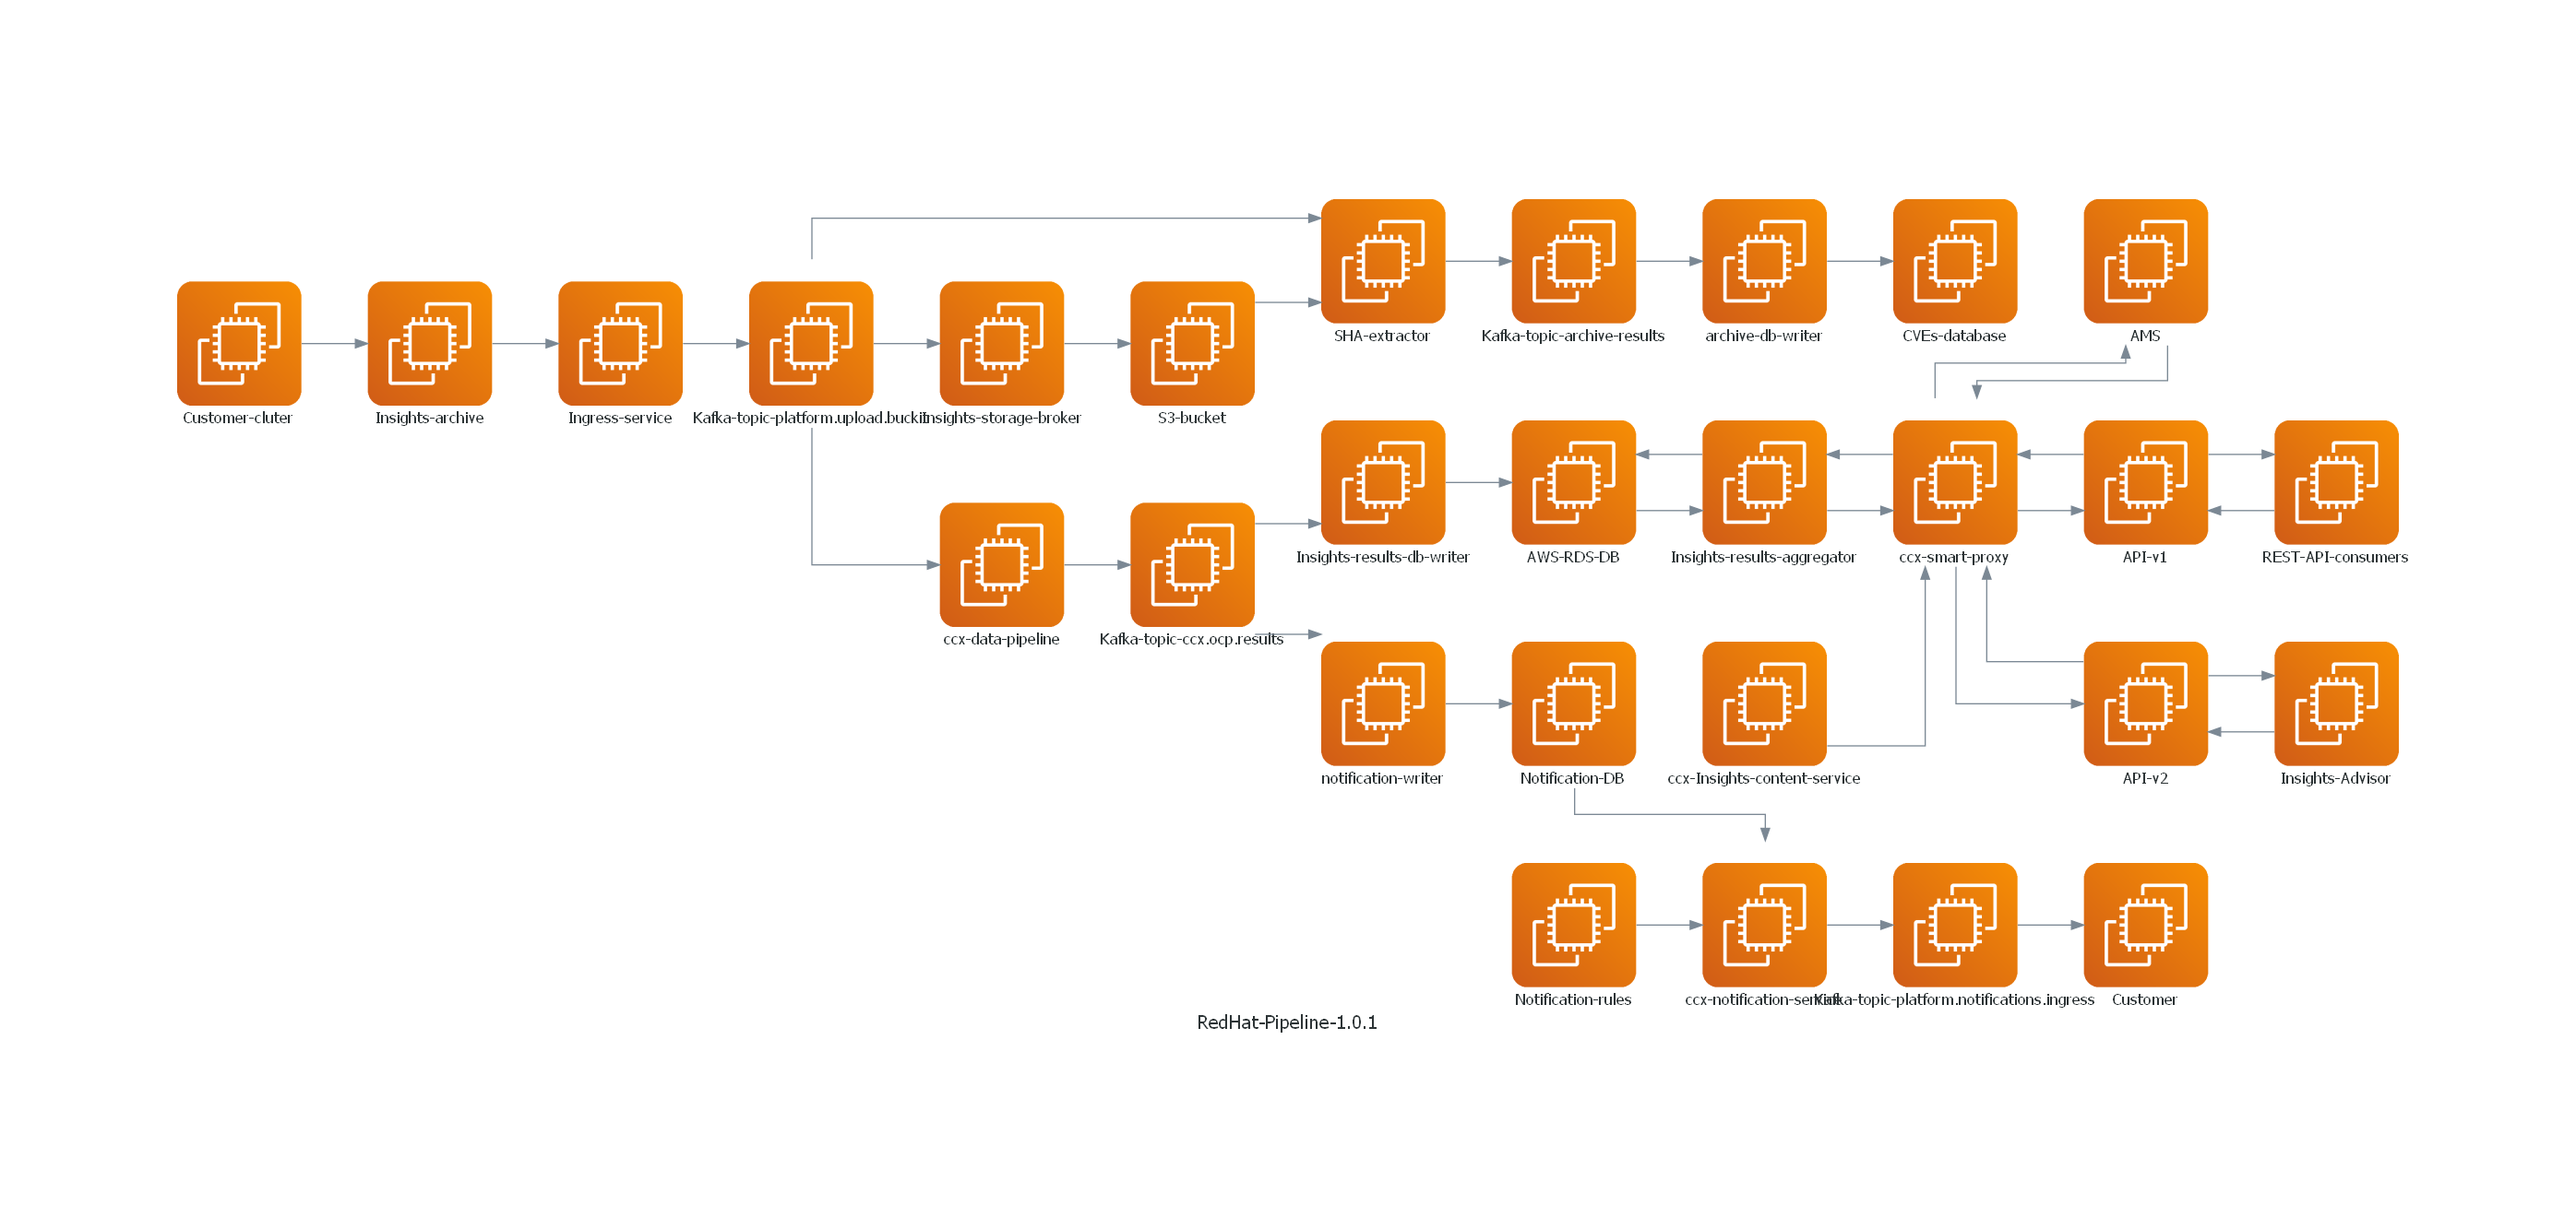
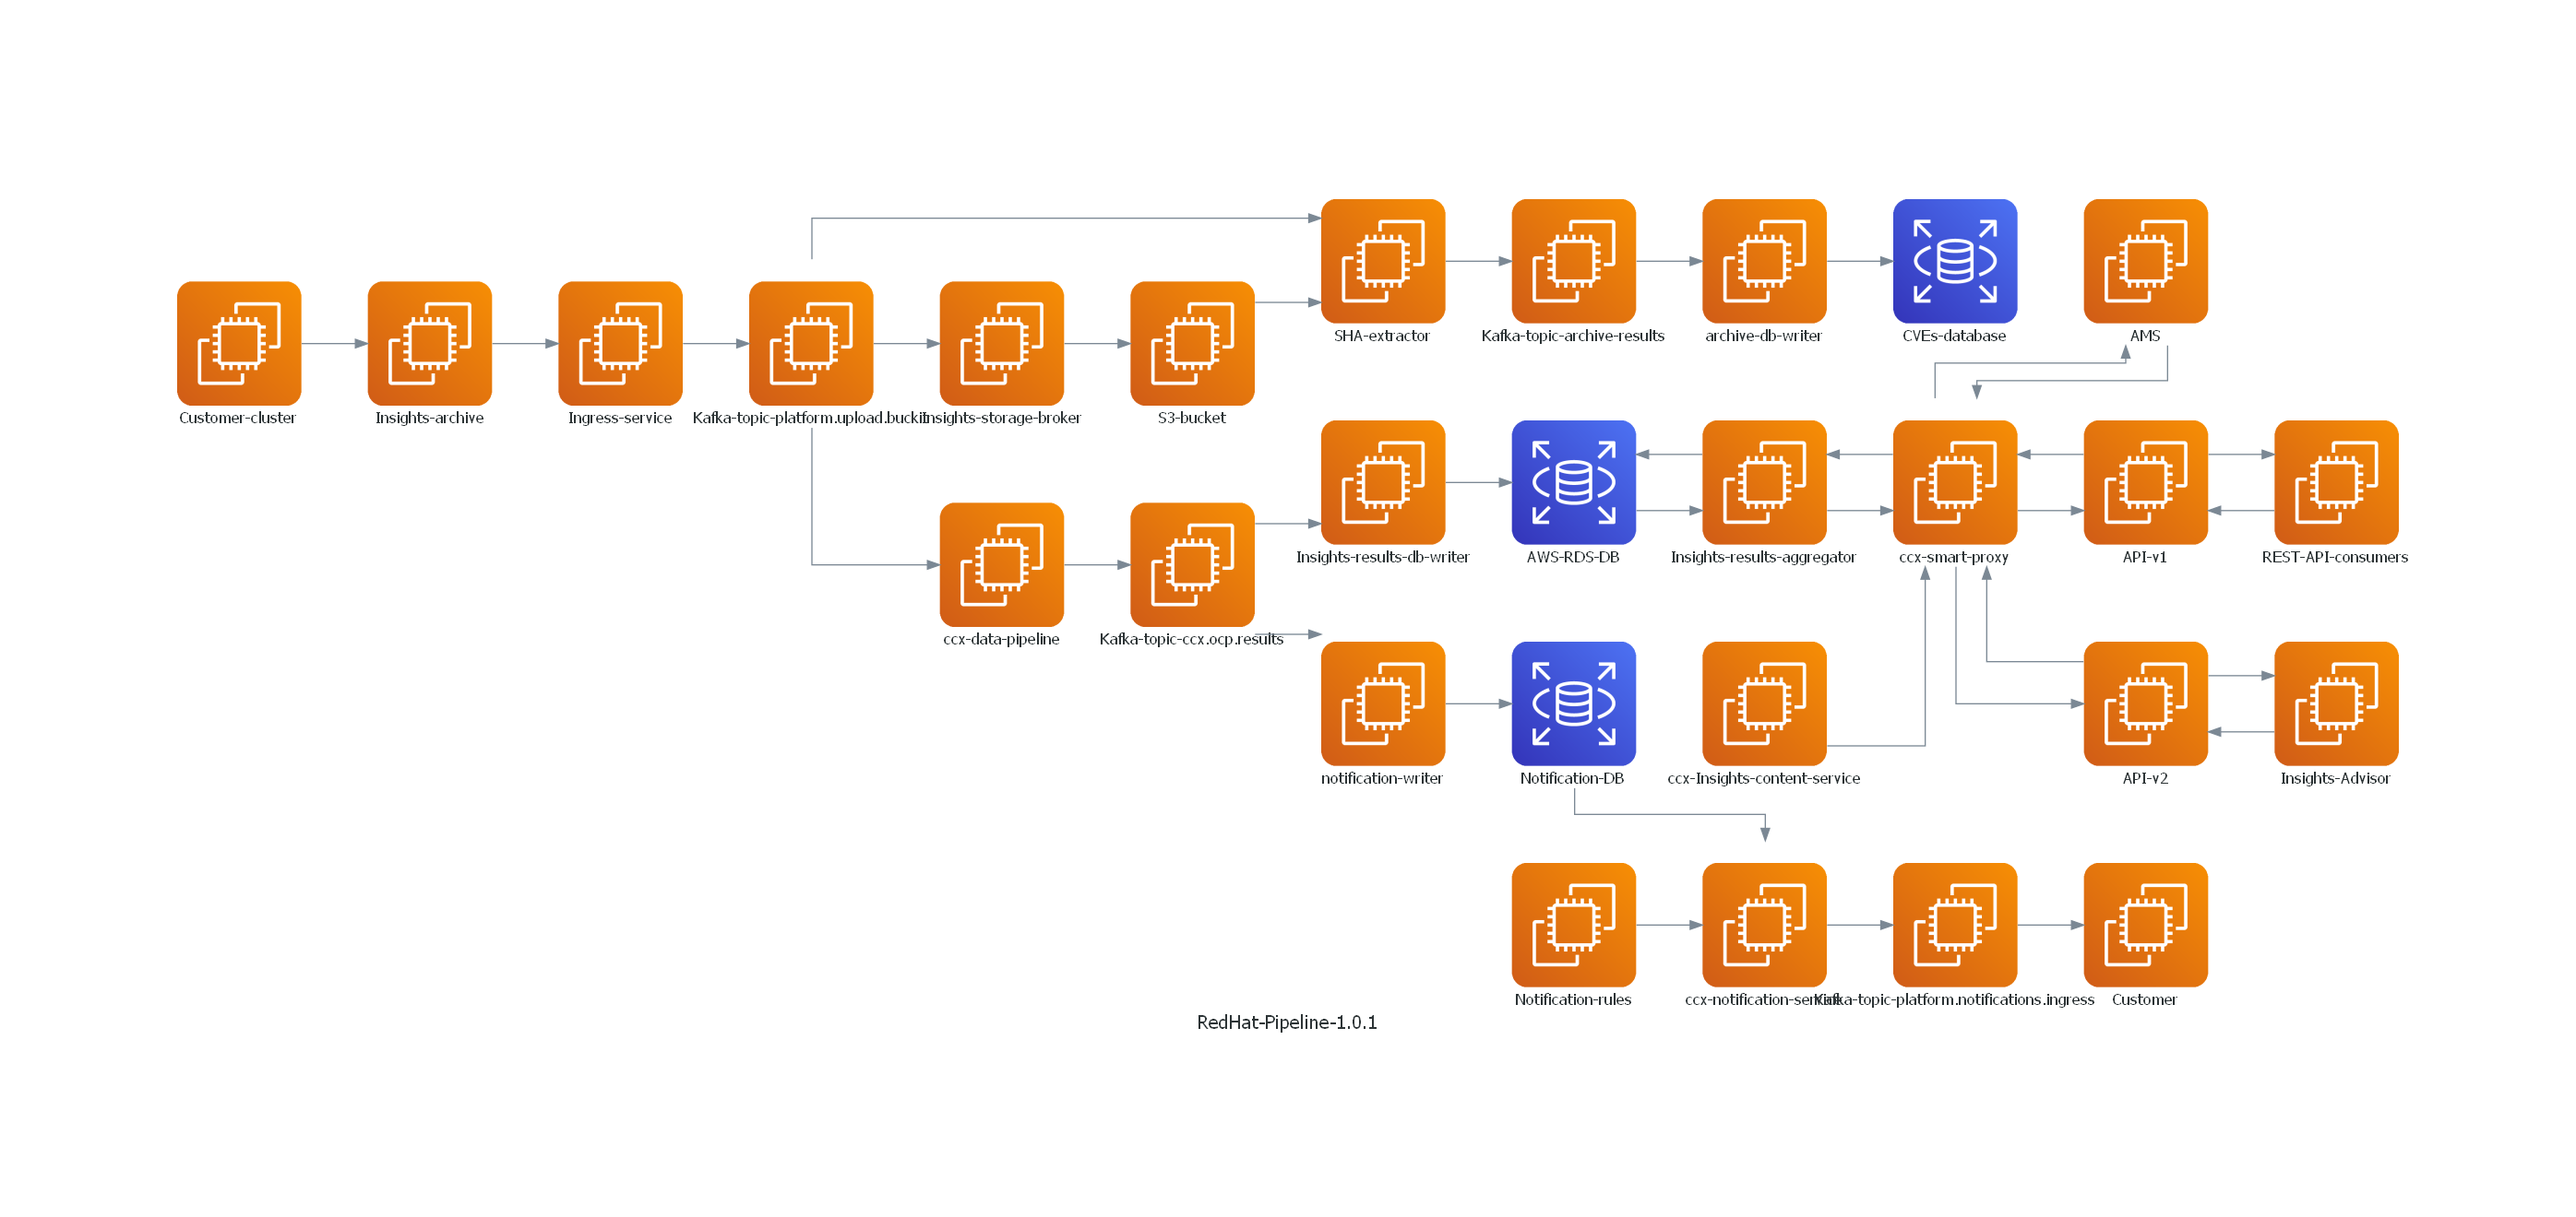
database type representation

Changed region(s): [[0.5609, 0.3417, 0.6544, 0.4659], [0.7167, 0.1553, 0.8102, 0.2795], [0.5609, 0.528, 0.6544, 0.6523]]

diff --git a/Diagrams/test.py b/Diagrams/test.py
@@ -1,5 +1,6 @@
 from diagrams import Diagram
 from diagrams.aws.compute import EC2
+from diagrams.aws.database import RDS
 
 import json
 
@@ -9,13 +10,20 @@ data = json.load(f)
 
 nodes = data['nodes']
 
-nodeMap = {}
-
 # Generate diagram based on node map
 with Diagram(data['systemName'] + '-' + data['systemVersion']):
+    # Format node with type
+    def formatNode(node):
+        if (node['nodeType'] == 'database'):
+            return RDS(node['nodeName'])
+        
+        return EC2(node['nodeName'])
+
+
     # Fill node map with node ID as key, node name as value
+    nodeMap = {}
     for node in nodes:
-        nodeMap.update({ node['nodeID']: EC2(node['nodeName']) })
+        nodeMap.update({ node['nodeID']: formatNode(node) })
 
     # Iterate through all nodes
     for node in nodes:

diff --git a/README.md b/README.md
@@ -4,4 +4,4 @@ JSON-based domain-specific language for describing MSA-based systems
 
 Currently coupled with the diagrams Python library for generating a graphical model from the language
 
-To setup, clone the repo, navigate to Diagrams/ and do ```pip install requirements.txt``` to get the Python project setup.
+To setup, clone the repo, navigate to Diagrams/ and do ```pip install -r requirements.txt``` to get the Python project setup.
